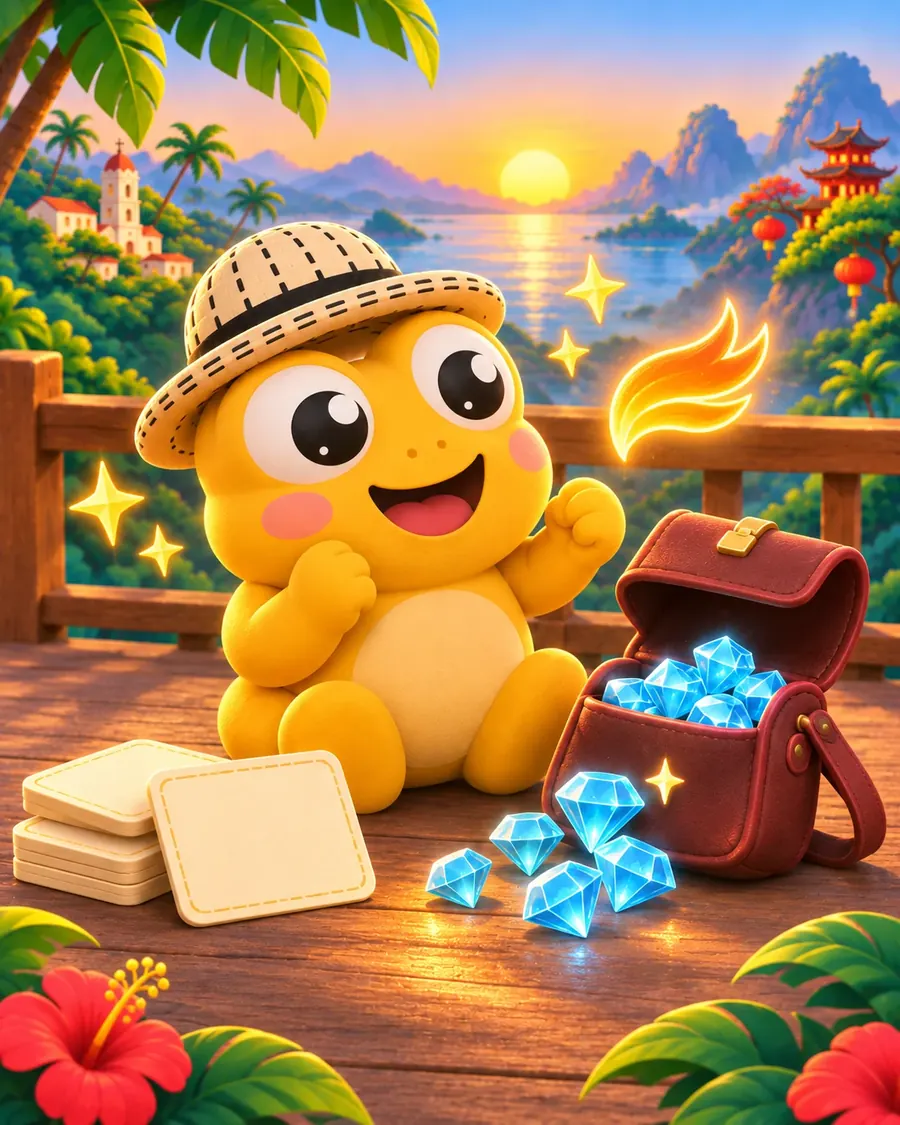
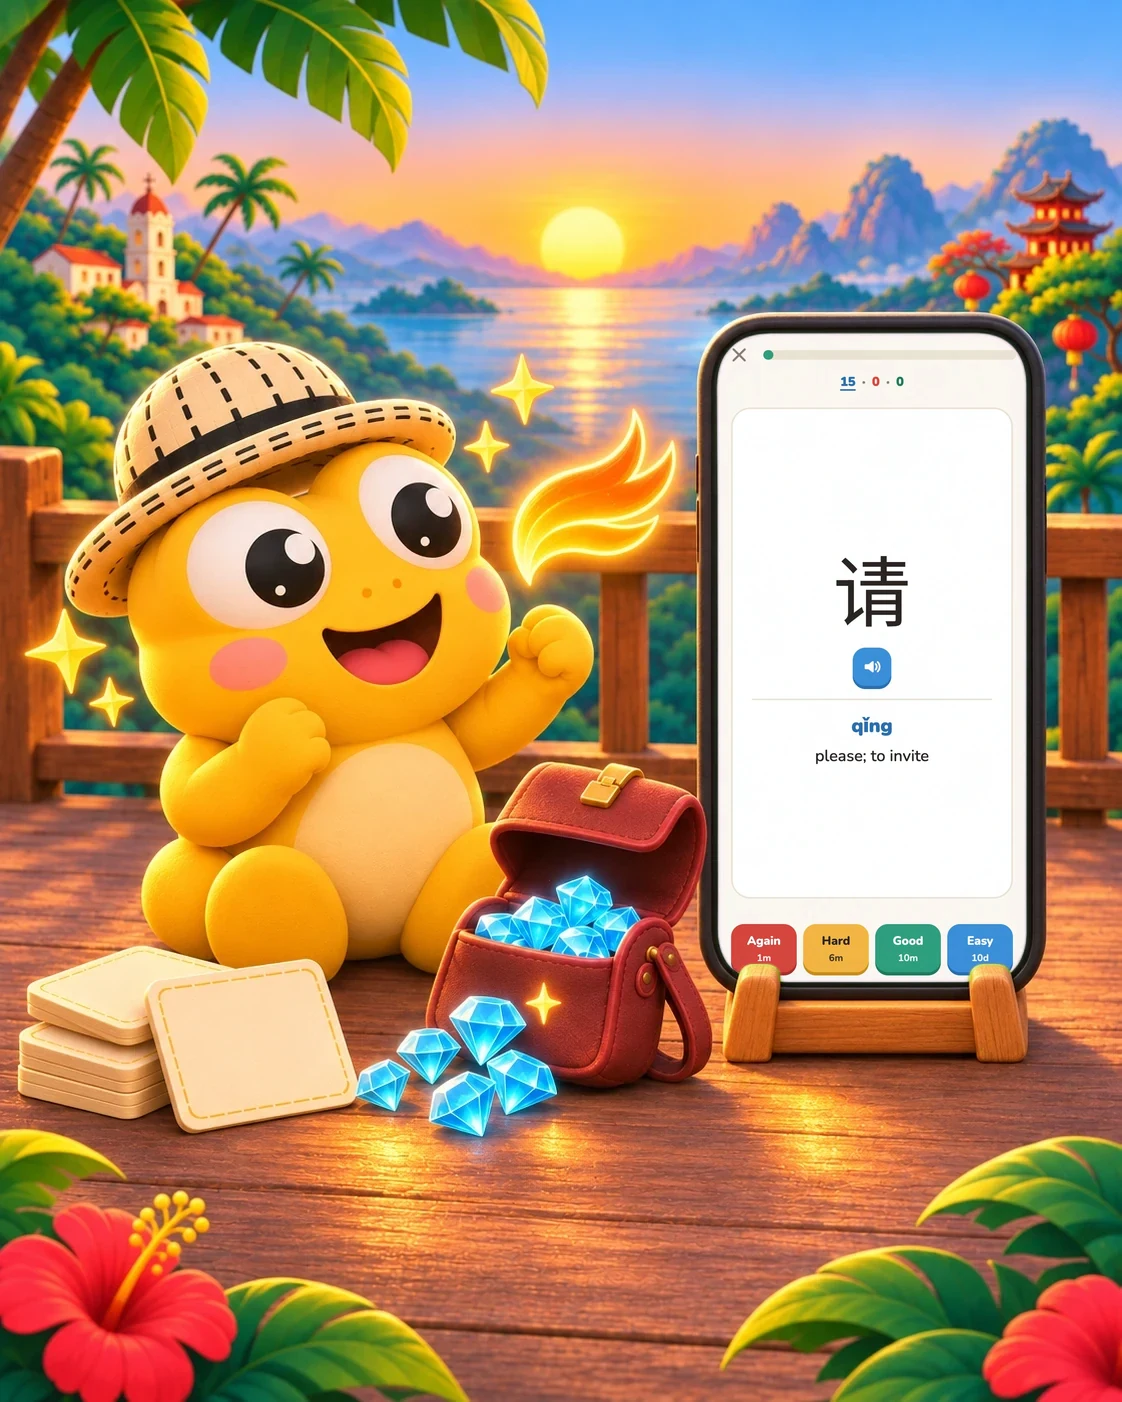
Intro shows the real screens inside the paintings: the phone's screen is sharp, hands stay on top, marks sit around what they point at
Each slide is a painting of the friends around a phone whose green screen is filled with a capture of the real app. The
capture is a second layer at its own resolution, cut by a matte taken from the green (rounded corners of the phone, holes
where a hand or a wing is in front), so it stays sharp when the picture is enlarged and the characters stay on top. The red
mark is cut by the same shape. The tab each slide is about is named above the picture, never over the characters. A sixth
slide explains Profile. tools/compose_intro.py prepares the pictures and the screen positions from the agent's paintings
and the captures, and prints the window size to take each capture in.

diff --git a/app/src/components/Intro.tsx b/app/src/components/Intro.tsx
@@ -1,46 +1,110 @@
 import { AnimatePresence, motion } from 'motion/react'
-import { useEffect, useRef, useState } from 'react'
+import { useEffect, useLayoutEffect, useRef, useState } from 'react'
+import screens from '../data/intro-screens.json'
 import { asset } from '../data/journey'
 import { useProgress } from '../lib/progress'
 
-type Slide = { image: string; alt: string; title: (name: string) => string; text: string }
+/** A spot on the screen of the phone in the painting: shares of the screen's width and height. */
+type Spot = { x: number; y: number; w: number; h: number }
+type Slide = {
+  image: keyof typeof screens | 'intro-1-welcome'
+  alt: string
+  title: (name: string) => string
+  text: string
+  /** The tab of the app this slide is about, named with the icon the app shows at the bottom. */
+  tab?: { icon: string; label: string }
+  /** What to look at on the phone's screen, circled in red just outside it (`thin` for a tight space). */
+  mark?: Spot & { round?: boolean; thin?: boolean }
+}
 
-// The quick tour: five short screens, each a painting of the four friends and one line about how the app works.
+// The quick tour: each slide is a painting of the four friends around a phone that shows a real screen of the app, with the
+// part to look at circled in red and the tab it belongs to named above the picture. Nothing is drawn over the characters.
 const SLIDES: Slide[] = [
   {
-    image: 'intro/intro-1-welcome.webp',
+    image: 'intro-1-welcome',
     alt: 'The four friends smiling together at sunrise, with the little train on the bridge behind them',
     title: (name) => (name ? `Hi, ${name}!` : 'Hi there!'),
     text: 'We are Wāwa, Yīngyīng, Lǎnlǎn and Zuǐzuǐ, your travel buddies. Let’s learn Mandarin together, one stop at a time.',
   },
   {
-    image: 'intro/intro-2-journey.webp',
-    alt: 'The friends walking along the station platform towards the steam train',
+    image: 'intro-2-map',
+    alt: 'The friends on the station platform, looking at a phone that shows the map',
     title: () => 'Travel through Panama',
-    text: 'Every province is a stop on the map. Hop on the train and visit real places as you learn.',
+    text: 'The Map is your home. Tap a province to open its doors.',
+    tab: { icon: 'nav-map.webp', label: 'Map' },
+    mark: { x: 0.4, y: 0.36, w: 0.2, h: 0.1, round: true },
   },
   {
-    image: 'intro/intro-3-doors.webp',
-    alt: 'Wāwa in front of a red door with five blank tokens floating above it',
+    image: 'intro-3-doors',
+    alt: 'Wāwa pointing at a phone that shows the doors of a province, next to a red door',
     title: () => 'Open a door, learn 5 words',
-    text: 'Each lesson is a door with five new words. Meet them, hear them and use them.',
+    text: 'Each door is a lesson: five new words, then quick exercises. Swipe between the doors and tap to start.',
+    tab: { icon: 'nav-map.webp', label: 'Lessons' },
+    mark: { x: 0.262, y: 0.163, w: 0.476, h: 0.042, round: true, thin: true },
   },
   {
-    image: 'intro/intro-4-practice.webp',
-    alt: 'The friends listening, writing and building at a table, while Wāwa points to them',
-    title: () => 'Listen, tap and write',
-    text: 'Match pairs, listen, build sentences and trace characters. Every lesson mixes them up.',
+    image: 'intro-4-write',
+    alt: 'The friends at a table, listening and writing, while Wāwa points at a phone that shows a character to trace',
+    title: () => 'Write with your finger',
+    text: 'In the Write tab, trace each character stroke by stroke, then write it from memory.',
+    tab: { icon: 'nav-write.webp', label: 'Write' },
+    mark: { x: 0.055, y: 0.16, w: 0.89, h: 0.455 },
   },
   {
-    image: 'intro/intro-5-review.webp',
-    alt: 'Wāwa cheering beside blue gems, study cards and a streak flame',
+    image: 'intro-5-review',
+    alt: 'Wāwa cheering beside blue gems and a phone that shows a review card',
     title: () => 'Review and earn gems',
-    text: 'Review cards bring each word back right before you forget it. Keep your streak going!',
+    text: 'In the Review tab each word comes back right before you forget it. Tell us how well you remembered.',
+    tab: { icon: 'nav-review.webp', label: 'Review' },
+    mark: { x: 0.03, y: 0.893, w: 0.94, h: 0.1, round: true },
+  },
+  {
+    image: 'intro-6-profile',
+    alt: 'The four friends around a phone that shows the profile with the travel buddies',
+    title: () => 'Make it yours',
+    text: 'In Profile, pick your travel buddy and watch your streak, points and gems grow.',
+    tab: { icon: 'nav-profile.webp', label: 'Profile' },
+    mark: { x: 0.035, y: 0.282, w: 0.93, h: 0.115, round: true },
   },
 ]
 
 /** How far a finger must travel sideways to turn the page. */
 const SWIPE = 50
+/** The share of the picture's width the phone should take, so the screen can be read. */
+const PHONE_SHARE = 0.42
+const ASPECT = 0.8 // the paintings are 4:5
+
+const clamp = (n: number, lo: number, hi: number) => Math.min(hi, Math.max(lo, n))
+const pct = (n: number) => `${n * 100}%`
+
+/** Where the picture sits in its frame: zoomed in on the phone (the phone's centre near the middle), never past the edges. */
+function framing(image: Slide['image']) {
+  const screen = image === 'intro-1-welcome' ? null : screens[image]
+  if (!screen) return { s: 1, tx: 0, ty: 0, screen: null }
+  const s = clamp(PHONE_SHARE / screen.w, 1.15, 2)
+  const tx = clamp(0.5 - s * (screen.x + screen.w / 2), 1 - s, 0)
+  const ty = clamp(0.46 - s * (screen.y + screen.h / 2), 1 - s, 0)
+  return { s, tx, ty, screen }
+}
+
+/** The largest 4:5 box that fits the space it is given, so the marks drawn over the picture stay on their spot. */
+function useFit() {
+  const holder = useRef<HTMLDivElement>(null)
+  const [box, setBox] = useState({ w: 0, h: 0 })
+  useLayoutEffect(() => {
+    const el = holder.current
+    if (!el) return
+    const fit = () => {
+      const w = Math.min(el.clientWidth, el.clientHeight * ASPECT)
+      setBox({ w, h: w / ASPECT })
+    }
+    fit()
+    const ro = new ResizeObserver(fit)
+    ro.observe(el)
+    return () => ro.disconnect()
+  }, [])
+  return { holder, box }
+}
 
 /** The quick tour, over everything else. `onDone` runs when it is finished or skipped. */
 export function Intro({ onDone }: { onDone: () => void }) {
@@ -49,14 +113,16 @@ export function Intro({ onDone }: { onDone: () => void }) {
   // 1 when moving on, -1 when going back: the picture slides in from that side.
   const [dir, setDir] = useState(1)
   const start = useRef<number | null>(null)
+  const { holder, box } = useFit()
   const last = i === SLIDES.length - 1
   const slide = SLIDES[i]
+  const { s, tx, ty, screen } = framing(slide.image)
 
-  // The first picture is the page's own; the rest are fetched while the learner reads it.
+  // The first picture is the page's own; the rest, and the screens that go on their phones, are fetched while the learner reads it.
   useEffect(() => {
-    SLIDES.forEach((s) => {
-      const img = new Image()
-      img.src = asset(s.image)
+    SLIDES.forEach((sl) => {
+      const files = [`intro/${sl.image}.webp`, ...(sl.image === 'intro-1-welcome' ? [] : [`intro/screens/${sl.image}.webp`])]
+      files.forEach((f) => (new Image().src = asset(f)))
     })
   }, [])
 
@@ -66,6 +132,10 @@ export function Intro({ onDone }: { onDone: () => void }) {
     setDir(to > i ? 1 : -1)
     setI(to)
   }
+
+  // The phone's screen as a rectangle over the framed picture (shares of the frame).
+  const live = screen && { left: screen.x * s + tx, top: screen.y * s + ty, width: screen.w * s, height: screen.h * s }
+  const screenFile = asset(`intro/screens/${slide.image}.webp`)
 
   return (
     <div
@@ -83,27 +153,80 @@ export function Intro({ onDone }: { onDone: () => void }) {
       }}
     >
       <div className="mx-auto flex min-h-0 w-full max-w-md flex-1 flex-col px-4 pt-[max(env(safe-area-inset-top),12px)] pb-[max(env(safe-area-inset-bottom),16px)]">
-        <div className="flex h-10 items-center justify-end">
+        <div className="flex h-10 items-center justify-between">
+          {slide.tab ? (
+            <span className="flex items-center gap-1.5 rounded-full border-2 border-line bg-card py-0.5 pr-3.5 pl-1.5 text-sm font-black">
+              <img src={asset(slide.tab.icon)} alt="" className="h-7 w-7" draggable={false} />
+              {slide.tab.label}
+            </span>
+          ) : (
+            <span />
+          )}
           <button type="button" onClick={onDone} className="rounded-xl px-3 py-2 text-sm font-extrabold text-muted">
             Skip
           </button>
         </div>
 
-        <div className="relative min-h-0 flex-1 overflow-hidden rounded-[2rem] border-2 border-line bg-line shadow-[0_6px_0_var(--color-line)]">
-          <AnimatePresence initial={false} custom={dir}>
-            <motion.img
-              key={i}
-              src={asset(slide.image)}
-              alt={slide.alt}
-              draggable={false}
-              custom={dir}
-              initial={{ opacity: 0, x: dir * 40 }}
-              animate={{ opacity: 1, x: 0 }}
-              exit={{ opacity: 0, x: dir * -40 }}
-              transition={{ duration: 0.35 }}
-              className="absolute inset-0 h-full w-full object-cover select-none"
-            />
-          </AnimatePresence>
+        <div ref={holder} className="flex min-h-0 flex-1 items-center justify-center">
+          <div
+            className="relative shrink-0 overflow-hidden rounded-[2rem] border-2 border-line bg-line shadow-[0_6px_0_var(--color-line)]"
+            style={{ width: box.w, height: box.h }}
+          >
+            <AnimatePresence initial={false} custom={dir}>
+              <motion.div
+                key={i}
+                custom={dir}
+                initial={{ opacity: 0, x: dir * 40 }}
+                animate={{ opacity: 1, x: 0 }}
+                exit={{ opacity: 0, x: dir * -40 }}
+                transition={{ duration: 0.35 }}
+                className="absolute inset-0"
+              >
+                <img
+                  src={asset(`intro/${slide.image}.webp`)}
+                  alt={slide.alt}
+                  draggable={false}
+                  className="absolute max-w-none select-none"
+                  style={{ width: pct(s), height: pct(s), left: pct(tx), top: pct(ty) }}
+                />
+                {/* The real screen, over the painting's phone at its own resolution, so it stays sharp when enlarged. Its picture is
+                    cut like the phone's screen (rounded corners) and has a hole wherever a hand or a wing is in front of it, so
+                    the characters stay on top; the red mark is cut by the same shape. */}
+                {live && (
+                  <div
+                    className="absolute"
+                    style={{ left: pct(live.left), top: pct(live.top), width: pct(live.width), height: pct(live.height) }}
+                  >
+                    <img src={screenFile} alt="" draggable={false} className="absolute inset-0 h-full w-full max-w-none select-none" />
+                    {slide.mark && (
+                      <div
+                        className="absolute inset-0"
+                        style={{
+                          maskImage: `url(${screenFile})`,
+                          WebkitMaskImage: `url(${screenFile})`,
+                          maskSize: '100% 100%',
+                          WebkitMaskSize: '100% 100%',
+                        }}
+                      >
+                        <motion.span
+                          className={`absolute border-brand ${slide.mark.thin ? 'border-2' : 'border-[3px]'} ${slide.mark.round ? 'rounded-full' : 'rounded-2xl'}`}
+                          style={{
+                            left: pct(slide.mark.x),
+                            top: pct(slide.mark.y),
+                            width: pct(slide.mark.w),
+                            height: pct(slide.mark.h),
+                            boxShadow: `0 0 0 ${slide.mark.thin ? 2 : 4}px rgba(224,69,58,.25)`,
+                          }}
+                          animate={{ opacity: [1, 0.55, 1] }}
+                          transition={{ duration: 1.6, repeat: Infinity }}
+                        />
+                      </div>
+                    )}
+                  </div>
+                )}
+              </motion.div>
+            </AnimatePresence>
+          </div>
         </div>
 
         <div className="flex flex-col items-center gap-2 pt-5 text-center">

diff --git a/tools/compose_intro.py b/tools/compose_intro.py
@@ -1,0 +1,128 @@
+"""Prepares the intro pictures: a painting of the friends around a phone, and the real screen that goes on that phone.
+
+The paintings come from the image agent with the phone screen left as one flat chroma-key green rectangle
+(design/intro-brief/originals-v2). Hands, wings and the stand that are in front of the phone cover part of that green. For
+each slide this:
+
+  1. works out how green every pixel around the screen is (a soft matte: 1 on the screen, 0 on the bezel and on anything in
+     front of it, in between on the edges), and where the screen sits, as shares of the picture, in
+     app/src/data/intro-screens.json, so components/Intro.tsx can lay the screen and the red marks over it exactly;
+  2. keys the capture into the painting, like a green-screen shot: where the matte is 1 the screen shows, where a hand covers
+     it the hand stays, and a hand's soft edge keeps its own blend. The result is saved at the painting's full size to
+     app/public/journey/intro, and is what shows under the next layer;
+  3. saves the capture at full resolution to app/public/journey/intro/screens as an image with an alpha channel, cut by that
+     same matte (rounded corners of the real phone, and holes where a hand is in front). The app draws it over the
+     painting, so the screen is sharp however much the painting is enlarged, and the hands stay on top of it.
+
+A capture must have the shape of the screen it goes in, or its text would be stretched: the script prints the window to take
+each one in (width 390, the height shown). Run it again whenever a painting or a capture changes:
+
+    python3 tools/compose_intro.py
+"""
+import json
+from pathlib import Path
+
+import numpy as np
+from PIL import Image
+from scipy import ndimage
+
+ROOT = Path(__file__).resolve().parent.parent
+PAINTINGS = ROOT / 'design/intro-brief/originals-v2'
+CAPTURES = ROOT / 'design/presentacion/fotos'
+OUT = ROOT / 'app/public/journey/intro'
+SHARES = ROOT / 'app/src/data/intro-screens.json'
+
+# slide file -> (painting, capture of the screen that is on the phone)
+SLIDES = {
+    'intro-2-map': ('v2-map', 'intro-map'),
+    'intro-3-doors': ('v2-doors', 'intro-doors'),
+    'intro-4-write': ('v2-write', 'intro-write'),
+    'intro-5-review': ('v2-review', 'intro-review'),
+    'intro-6-profile': ('v2-profile-group', 'intro-profile'),
+}
+
+
+def screen_core(rgb: np.ndarray) -> np.ndarray:
+    """The biggest patch of flat pure green: the sure part of the screen."""
+    r, g, b = (rgb[..., i].astype(int) for i in range(3))
+    flat = (g > 200) & (r < 100) & (b < 100) & (g - r > 130)
+    labels, n = ndimage.label(flat)
+    if n == 0:
+        raise SystemExit('no green screen found')
+    return labels == np.argmax(ndimage.sum(flat, labels, range(1, n + 1))) + 1
+
+
+def matte(rgb: np.ndarray, core: np.ndarray) -> tuple[np.ndarray, np.ndarray]:
+    """How much of each pixel is the green screen (0 to 1), and the green itself.
+
+    Green stands out from every other colour in the picture by how much its green is above its red and blue: the dark
+    bezel and the yellow, brown or grey of the friends score zero or less, and a pixel half bezel and half green scores half.
+    Only the screen and a band around it are looked at, so a leaf elsewhere is never taken for screen."""
+    r, g, b = (rgb[..., i].astype(float) for i in range(3))
+    greenness = g - np.maximum(r, b)
+    sure = np.median(greenness[core])
+    green = np.array([np.median(rgb[..., i][core]) for i in range(3)])
+    near = ndimage.binary_dilation(ndimage.binary_fill_holes(core), iterations=4)
+    alpha = np.clip((greenness / sure - 0.04) / 0.92, 0, 1)
+    alpha[~near] = 0
+    return alpha, green
+
+
+def sharpen(alpha: np.ndarray, gain: float = 2.2) -> np.ndarray:
+    """Steepens a soft edge around its middle, so a matte enlarged from the painting keeps a clean line."""
+    return np.clip((alpha - 0.5) * gain + 0.5, 0, 1)
+
+
+def main() -> None:
+    (OUT / 'screens').mkdir(parents=True, exist_ok=True)
+    shares = {}
+    for slide, (painting, capture) in SLIDES.items():
+        art = Image.open(PAINTINGS / f'{painting}.webp').convert('RGB')
+        pic = np.asarray(art)
+        core = screen_core(pic)
+        ys, xs = np.where(core)
+        x0, x1, y0, y1 = xs.min(), xs.max() + 1, ys.min(), ys.max() + 1
+        w, h = x1 - x0, y1 - y0
+        shot = Image.open(CAPTURES / f'{capture}.jpg').convert('RGB')
+        alpha, green = matte(pic, core)
+
+        # 2. The capture keyed into the painting: C + alpha * (capture - green). On the screen that is the capture; on a
+        #    hand's soft edge the hand's own colour is kept; elsewhere nothing changes.
+        pad = 3
+        box = (x0 - pad, y0 - pad, x1 + pad, y1 + pad)
+        under = np.asarray(shot.resize((w + 2 * pad, h + 2 * pad), Image.LANCZOS)).astype(float)
+        a = alpha[box[1]:box[3], box[0]:box[2], None]
+        region = pic[box[1]:box[3], box[0]:box[2]].astype(float)
+        keyed = np.clip(region + a * (under - green), 0, 255).astype('uint8')
+        out = pic.copy()
+        out[box[1]:box[3], box[0]:box[2]] = keyed
+        Image.fromarray(out).save(OUT / f'{slide}.webp', quality=88, method=6)
+
+        # 3. The sharp layer: the capture at its own size, with the matte (only where it is surely screen, so the rim, where
+        #    a hand's edge is blended with the green, shows the keyed painting under it) enlarged to that size and given a gentle shadow along the edge.
+        inner = np.clip((alpha[y0:y1, x0:x1] - 0.85) / 0.14, 0, 1)
+        cw, ch = shot.size
+        big = np.asarray(Image.fromarray((inner * 255).astype('uint8')).resize((cw, ch), Image.LANCZOS)).astype(float) / 255
+        big = sharpen(big)
+        inside = ndimage.distance_transform_edt(big > 0.5)
+        shade = 1 - 0.22 * np.clip(1 - inside / 5, 0, 1)
+        rgba = np.dstack([np.asarray(shot).astype(float) * shade[..., None], big * 255]).clip(0, 255).astype('uint8')
+        Image.fromarray(rgba, 'RGBA').save(OUT / 'screens' / f'{slide}.webp', quality=92, alpha_quality=100, method=6)
+
+        W, H = art.size
+        shares[slide] = {'x': round(x0 / W, 4), 'y': round(y0 / H, 4), 'w': round(w / W, 4), 'h': round(h / H, 4)}
+        hidden = 1 - float(inner.mean())
+        want = round(390 / (w / h))
+        have = shot.size[0] / shot.size[1]
+        flag = '' if abs(have - w / h) < 0.01 else f'   <- capture shape {have:.3f}: retake it at 390x{want}'
+        print(f'{slide:16} screen {w}x{h} ({w / W:.0%} of the width), {hidden:.1%} of it covered; capture window 390x{want}{flag}')
+
+    # The welcome picture has no phone: only copied at its full size.
+    Image.open(ROOT / 'design/intro-brief/originals/intro-1-welcome.webp').convert('RGB').save(
+        OUT / 'intro-1-welcome.webp', quality=88, method=6
+    )
+    SHARES.write_text(json.dumps(shares, indent=1) + '\n')
+
+
+if __name__ == '__main__':
+    main()
